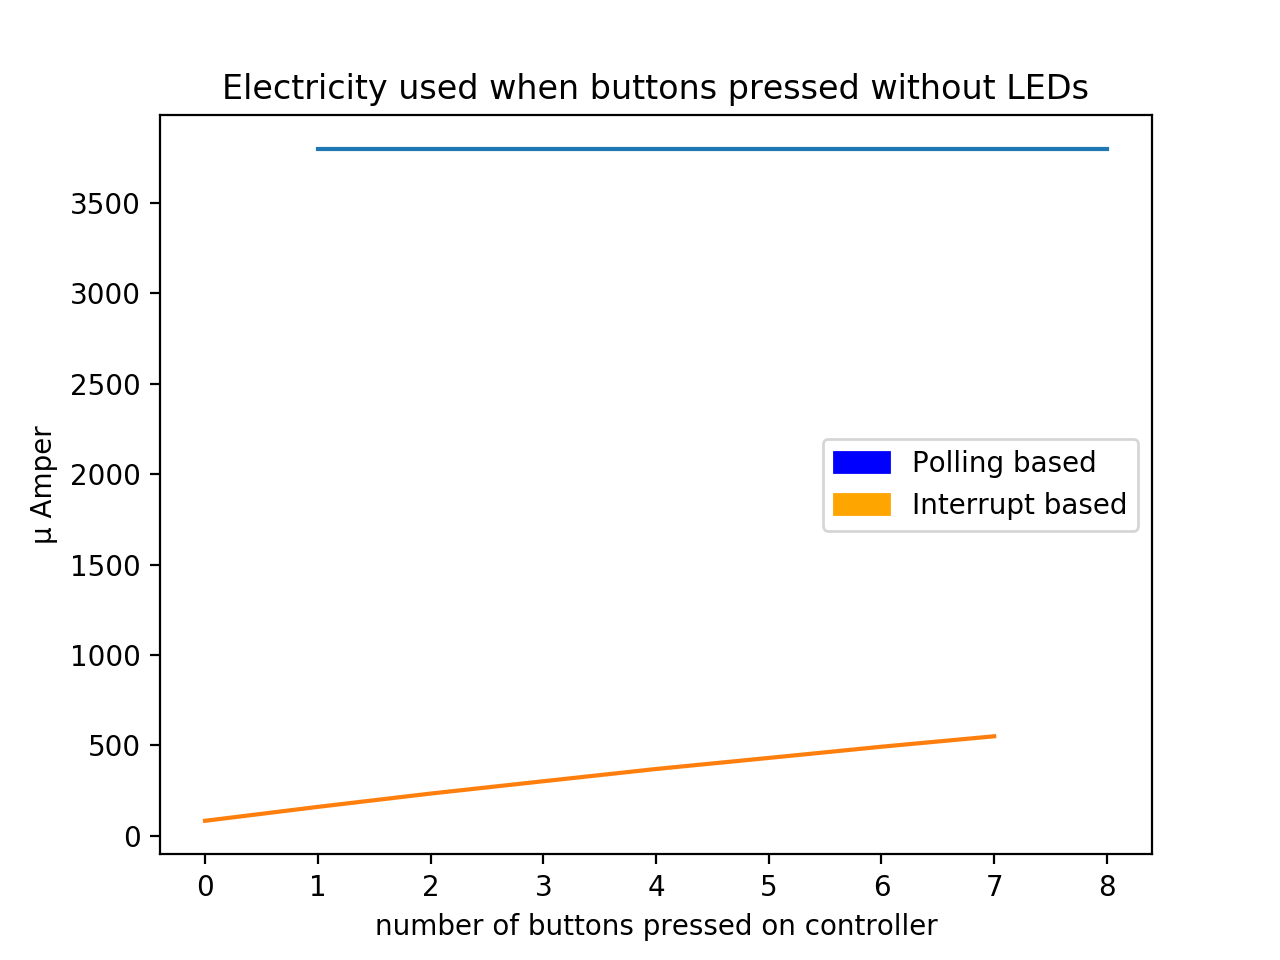
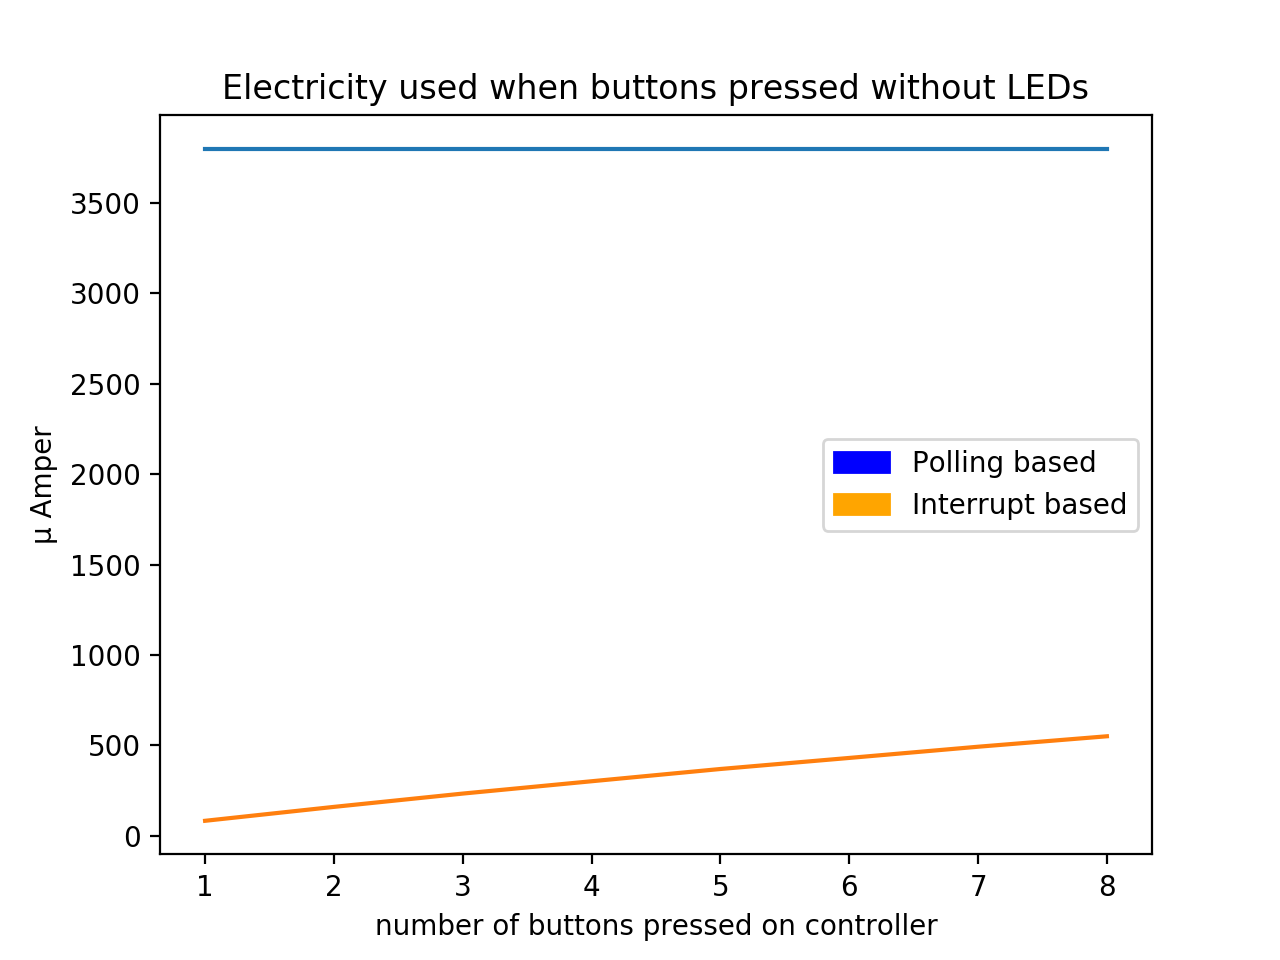
correct values in powerPlotPollingVsInterupt

diff --git a/exercise1/Plotting/main.py b/exercise1/Plotting/main.py
@@ -38,7 +38,7 @@ plt.title('Electricity used when buttons pressed without LEDs')
 blue_patch = mpatches.Patch(color='blue', label='Polling based')
 orange_patch = mpatches.Patch(color='orange', label='Interrupt based')
 plt.legend(handles=[blue_patch, orange_patch])
-plt.plot(t,  values, values_avragebtn_interuptbased)
+plt.plot(t,  values, t, values_avragebtn_interuptbased)
 plt.ylabel('µ Amper')
 plt.xlabel('number of buttons pressed on controller')
 plt.show()
